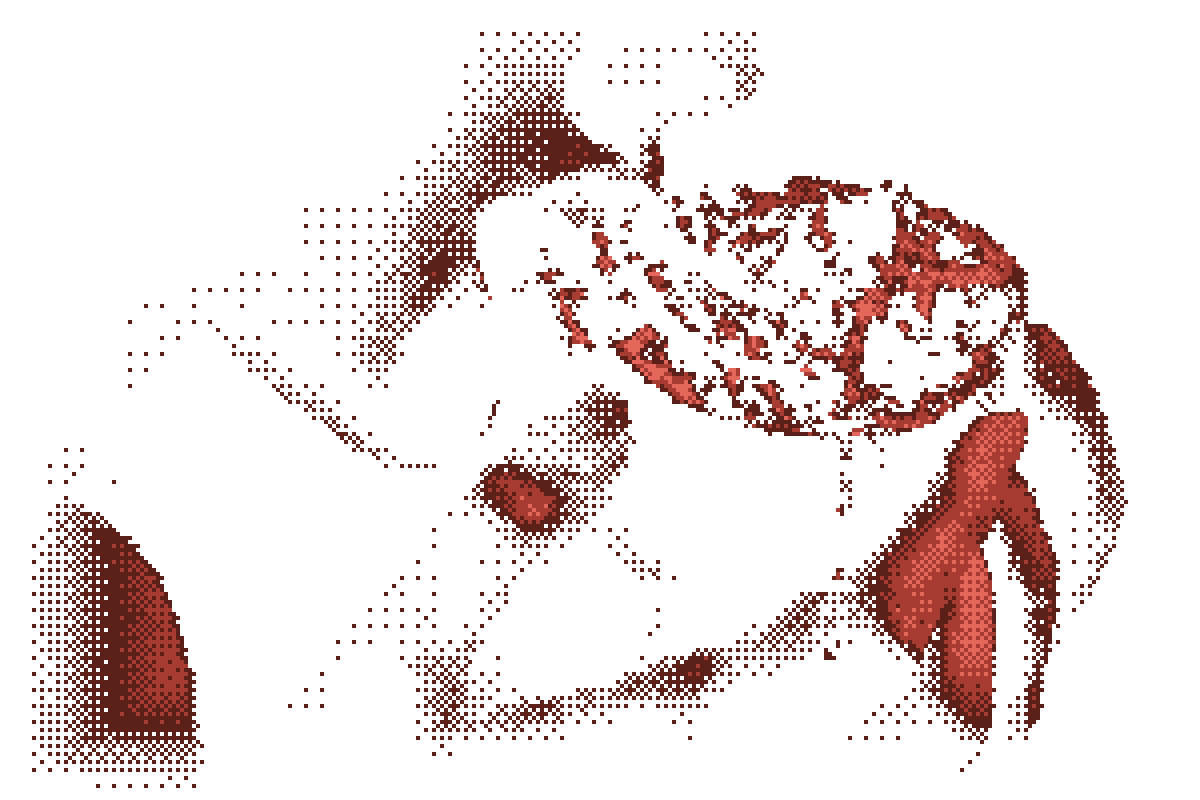
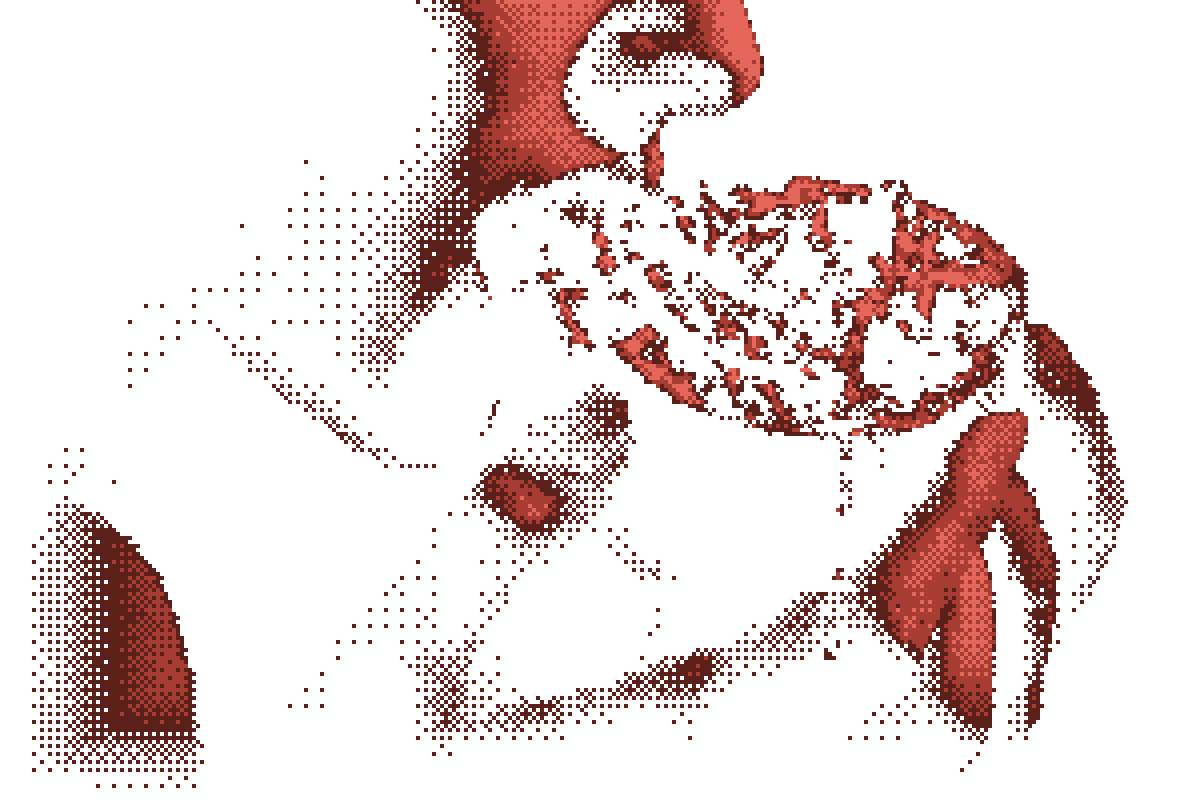
Fade the landing's closing image in by opacity from the top (T-115)
The top no longer thins the dither. A gradient mask starts the image almost
invisible under the last figure and brings it to full strength at 68% of its
height, as if it had always been in the background.

diff --git a/landing/app/components/LandingPage.module.css b/landing/app/components/LandingPage.module.css
@@ -352,6 +352,9 @@
   width: 100%;
   height: auto;
   image-rendering: pixelated;
+  /* Starts almost invisible under the figure and gains opacity gradually, as if it was always there. */
+  -webkit-mask-image: linear-gradient(to bottom, #0000 0%, #0001 8%, #0004 22%, #0009 40%, #000d 55%, #000 68%);
+  mask-image: linear-gradient(to bottom, #0000 0%, #0001 8%, #0004 22%, #0009 40%, #000d 55%, #000 68%);
 }
 
 .landing[data-motion] .bite[data-reveal]:not([data-shown]) { opacity: 0; transform: translateY(-24px); filter: blur(8px); }

diff --git a/docs/internal/design/landing.md b/docs/internal/design/landing.md
@@ -70,7 +70,7 @@ The landing is an isolated package, so it copies these values instead of importi
 - A 22px dot grid sits behind the hero and fades out from the upper right through a radial mask.
 - Under a fine pointer, each dot the cursor crosses turns Signal red and fades out over 1.1 seconds, still inside the same fade (`DotGlow`). Only crossed dots light, never a radius around the cursor.
 - A pomegranate broken in two halves sits behind the hero on the right (`pomegranate-halves.png`).
-- A person biting into a pomegranate (`pomegranate-bite.png`) sits right below the last figure, with no caption. Its sides and bottom dissolve into the dither, and its top fades in gradually over the upper 42% right under the figure, so it reads as emerging from it.
+- A person biting into a pomegranate (`pomegranate-bite.png`) sits right below the last figure, with no caption. Its sides and bottom dissolve into the dither. Its top starts almost invisible right under the figure and gains opacity through a gradient mask, reaching full strength at 68% of its height, as if it had always been in the background.
 - Both images are generated photographs converted to a 4×4 Bayer dither in three reds (`#5c201b`, Red, Signal) on a transparent ground. Each file carries its generation prompt and conversion steps in a PNG text chunk.
 - The images render with pixelated scaling, so each dither pixel stays a visible square.
 - The pomegranate is the brand's hidden thread. Nothing on the page names or explains it.
